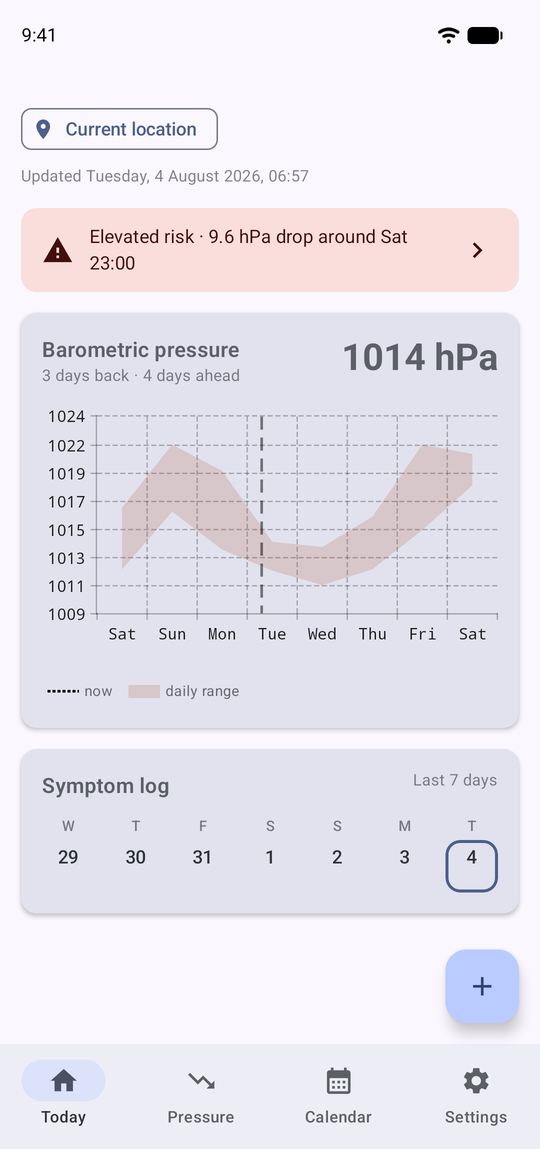
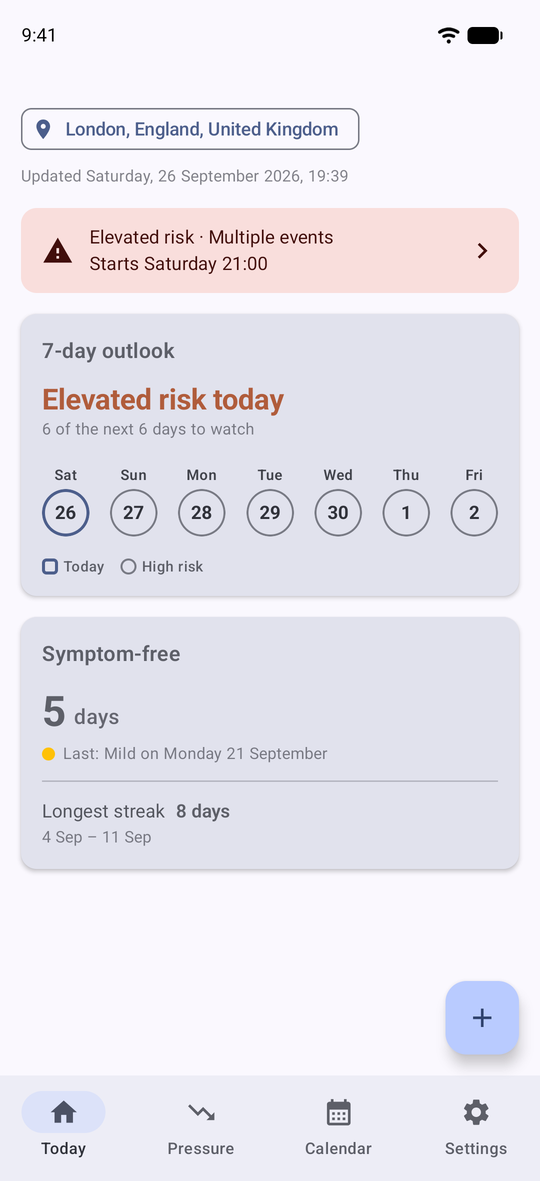
Update website, docs and build for new version

diff --git a/docs/index.html b/docs/index.html
@@ -3,8 +3,8 @@
 <head>
 <meta charset="utf-8">
 <meta name="viewport" content="width=device-width, initial-scale=1">
-<title>Migraine Watch — barometric pressure alerts for migraine</title>
-<meta name="description" content="Migraine Watch tracks barometric pressure and warns you before a change large enough to matter. Your symptom log never leaves your phone.">
+<title>MigraineWatch — barometric pressure alerts for migraine</title>
+<meta name="description" content="MigraineWatch tracks barometric pressure and warns you before a change large enough to matter. Your symptom log never leaves your phone.">
 <meta name="theme-color" content="#2c2521">
 <link rel="stylesheet" href="styles.css">
 <link rel="icon" type="image/png" href="logo.png">
@@ -16,7 +16,7 @@
     <div class="wrap">
         <a class="brand" href="./">
             <img class="brand-mark" src="logo.png" width="256" height="256" alt="">
-            <span class="wordmark">Migraine <span class="wordmark-accent">Watch</span></span>
+            <span class="wordmark">Migraine<span class="wordmark-accent">Watch</span></span>
         </a>
     </div>
 </header>
@@ -27,7 +27,7 @@
             <div class="hero-copy">
                 <h1>Know the pressure is dropping before your head does.</h1>
                 <p class="lede">
-                    Migraine Watch checks the barometric pressure where you are and warns you
+                    MigraineWatch checks the barometric pressure where you are and warns you
                     ahead of a change big enough to matter — so a bad day is something you
                     can plan for.
                 </p>
@@ -47,8 +47,8 @@
                 <div class="device">
                     <div class="device-screen">
                         <img src="screenshot-today.png"
-                             width="540" height="1149"
-                             alt="The Today screen: a red banner reading 'Elevated risk, 9.6 hPa drop around Sat 23:00', above a barometric pressure chart covering three days back and four ahead with the current reading at 1014 hPa, and a seven-day symptom log."
+                             width="540" height="1181"
+                             alt="The Today screen for London: a red banner reading 'Elevated risk, multiple events, starts Saturday 21:00', above a seven-day outlook headed 'Elevated risk today' with a circle on each day to watch, and a symptom-free count of 5 days since a mild day on Monday 21 September."
                              loading="eager" decoding="async">
                     </div>
                 </div>
@@ -69,22 +69,24 @@
             <li class="card">
                 <h3>Clearly shows pressure</h3>
                 <p>
-                    Three days behind and four ahead at a glance, with the daily range
-                    shaded. Tap a warning to see the event itself picked out.
+                    A seven-day outlook circles the days worth watching, and the chart
+                    covers the next day, two days or the week, with each event's risk
+                    window shaded on it.
                 </p>
             </li>
             <li class="card">
                 <h3>Tracks your symptoms</h3>
                 <p>
                     Record severity, triggers, medication and how much relief it gave,
-                    against the weather on the day it happened.
+                    against the weather on the day, and see how long you have gone
+                    without symptoms.
                 </p>
             </li>
             <li class="card">
                 <h3>Can be tuned to you</h3>
                 <p>
                     Three sensitivity levels decide how big a change has to be. Turn it up
-                    to catch smaller drops, down to hear only the serious ones.
+                    to catch smaller changes, down to hear only the serious ones.
                 </p>
             </li>
             <li class="card">
@@ -106,7 +108,7 @@
         <div class="panel">
             <h2>Your health data stays on your phone</h2>
             <p>
-                Migraine Watch has no server. There is no account, no
+                MigraineWatch has no server. There is no account, no
                 advertising and no third-party tracking of any kind. What you record about
                 your health is written to your device and stays there.
             </p>
@@ -129,7 +131,7 @@
             <li><a href="mailto:radami.contact@gmail.com">Contact</a></li>
         </ul>
         <p>
-            Migraine Watch is a tracking aid, not a medical device. It cannot diagnose
+            MigraineWatch is a tracking aid, not a medical device. It cannot diagnose
             anything and is no substitute for advice from a clinician.
         </p>
     </div>

diff --git a/docs/privacy.html b/docs/privacy.html
@@ -3,8 +3,8 @@
 <head>
 <meta charset="utf-8">
 <meta name="viewport" content="width=device-width, initial-scale=1">
-<title>Privacy policy — Migraine Watch</title>
-<meta name="description" content="How Migraine Watch handles your data: the symptom log stays on your device, and only your approximate coordinates and any place you search for are sent to the weather service.">
+<title>Privacy policy — MigraineWatch</title>
+<meta name="description" content="How MigraineWatch handles your data: the symptom log stays on your device, and only your approximate coordinates and any place you search for are sent to the weather service.">
 <meta name="theme-color" content="#2c2521">
 <link rel="stylesheet" href="styles.css">
 <link rel="icon" type="image/png" href="logo.png">
@@ -16,7 +16,7 @@
     <div class="wrap wrap--narrow">
         <a class="brand" href="./">
             <img class="brand-mark" src="logo.png" width="256" height="256" alt="">
-            <span class="wordmark">Migraine <span class="wordmark-accent">Watch</span></span>
+            <span class="wordmark">Migraine<span class="wordmark-accent">Watch</span></span>
         </a>
     </div>
 </header>
@@ -24,10 +24,10 @@
 <main class="wrap wrap--narrow prose">
     <h1>Privacy policy</h1>
     <!-- Revise this whenever the policy's substance changes, not on cosmetic edits. -->
-    <p class="updated">Last updated: 4 August 2026</p>
+    <p class="updated">Last updated: 26 September 2026</p>
 
     <p>
-        This policy covers the Migraine Watch Android application
+        This policy covers the MigraineWatch Android application
         (<code>com.radami.migrainewatch</code>). It explains what the app stores, what
         leaves your device, and what does not.
     </p>
@@ -35,7 +35,7 @@
     <div class="panel">
         <h2>The short version</h2>
         <p>
-            Migraine Watch has no server and no user accounts. Everything you record —
+            MigraineWatch has no server and no user accounts. Everything you record —
             your symptom log, your settings, your location — is stored on your device.
             The only things that ever leave it are your approximate coordinates, sent to
             a weather service to fetch a forecast, and a place name if you choose to
@@ -152,13 +152,14 @@
     <p>
         Data stays on your device until you remove it. Symptom entries persist until you
         delete them in the app. Stored pressure readings build up as the app fetches
-        forecasts and are not deleted on a schedule; they are weather measurements for your
-        area rather than anything about you. The record of which alerts have already been
+        forecasts and are not deleted on a schedule, though changing your location replaces
+        them with readings for the new place; they are weather measurements for your area
+        rather than anything about you. The record of which alerts have already been
         sent is discarded after 30 days.
     </p>
     <p>
         To erase everything, uninstall the app, or use
-        <em>Settings &rarr; Apps &rarr; Migraine Watch &rarr; Storage &rarr; Clear data</em>.
+        <em>Settings &rarr; Apps &rarr; MigraineWatch &rarr; Storage &rarr; Clear data</em>.
         Because nothing is held on a server, that is genuinely all of it. If you have
         Android backup enabled, remember to remove the backup from your Google account as
         well.
@@ -166,7 +167,7 @@
 
     <h2>Children</h2>
     <p>
-        Migraine Watch is not directed at children under 13, and it does not knowingly
+        MigraineWatch is not directed at children under 13, and it does not knowingly
         collect information from them. It has no sign-up, so it does not gather age or
         identity information from anyone.
     </p>
@@ -200,7 +201,7 @@
             <li><a href="privacy.html">Privacy policy</a></li>
         </ul>
         <p>
-            Migraine Watch is a tracking aid, not a medical device. It cannot diagnose
+            MigraineWatch is a tracking aid, not a medical device. It cannot diagnose
             anything and is no substitute for advice from a clinician.
         </p>
     </div>

diff --git a/docs/styles.css b/docs/styles.css
@@ -1,4 +1,4 @@
-/* Migraine Watch — shared styles for the landing and privacy pages.
+/* MigraineWatch — shared styles for the landing and privacy pages.
    No external fonts or assets, so both pages work from any static host. */
 
 :root {

diff --git a/README.md b/README.md
@@ -32,7 +32,7 @@ sdk.dir=/path/to/Android/Sdk
 ./gradlew assembleDebug
 ```
 
-Then launch **Migraine Watch** from the launcher, or:
+Then launch **MigraineWatch** from the launcher, or:
 
 ```bash
 adb shell am start -n com.radami.migrainewatch/.MainActivity
